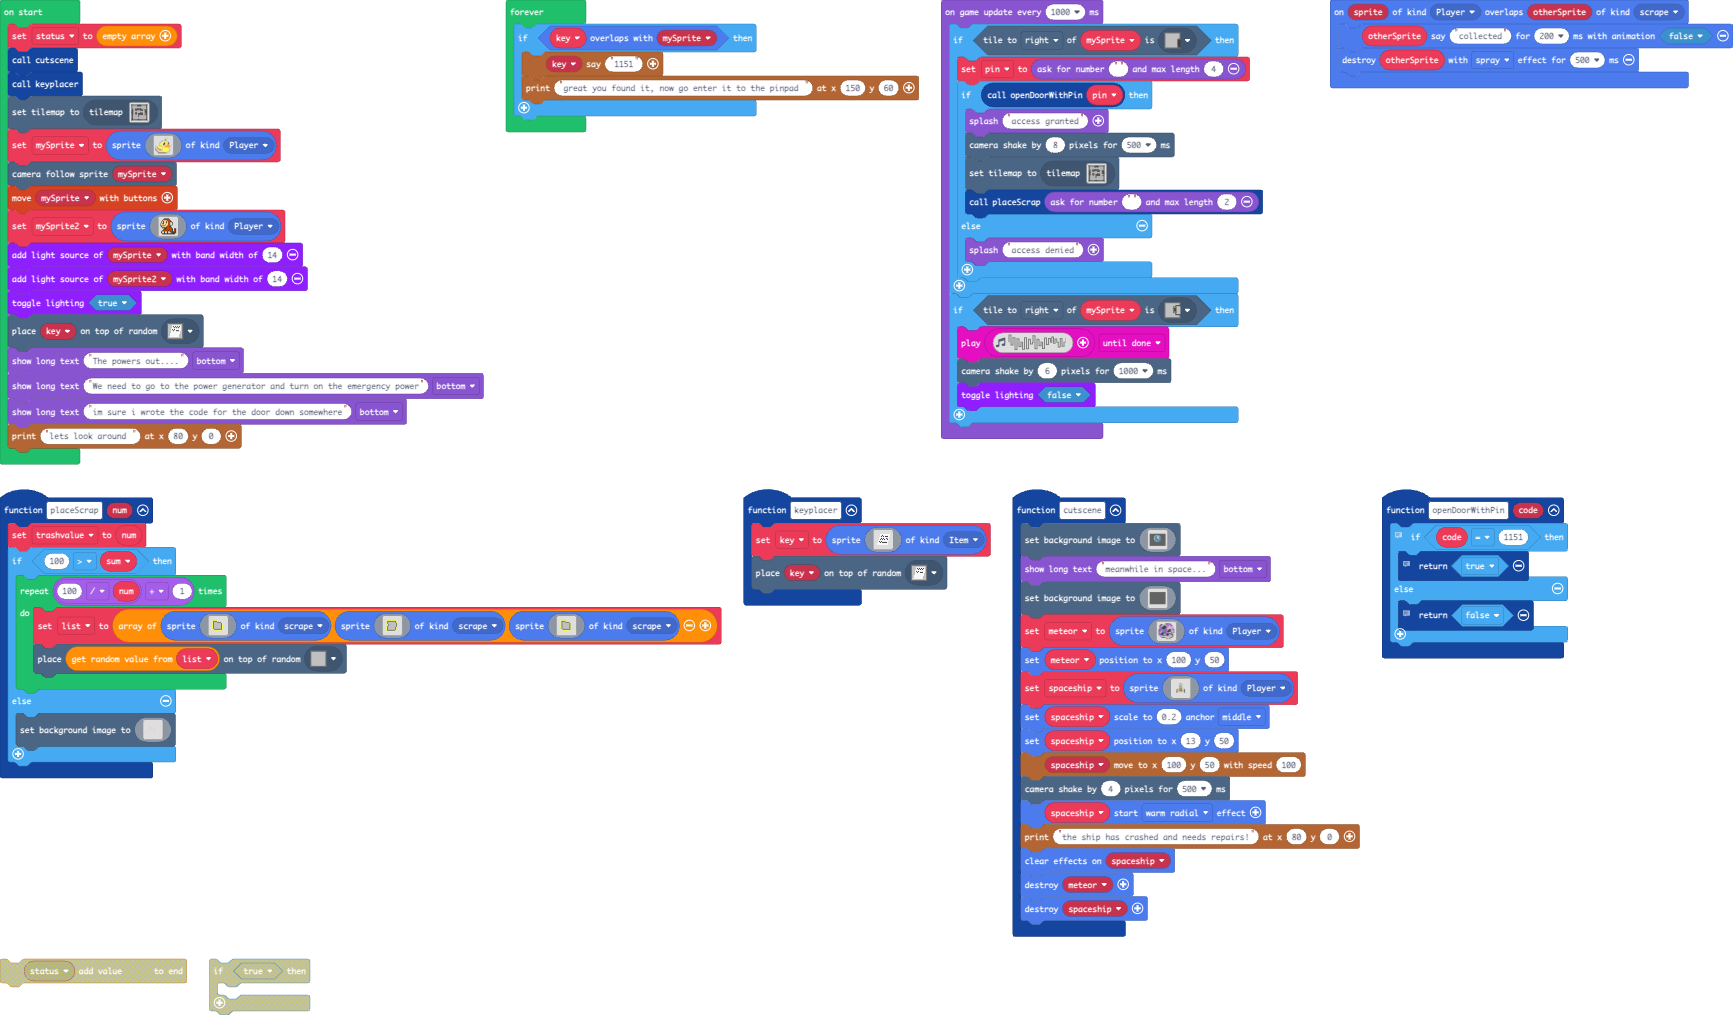
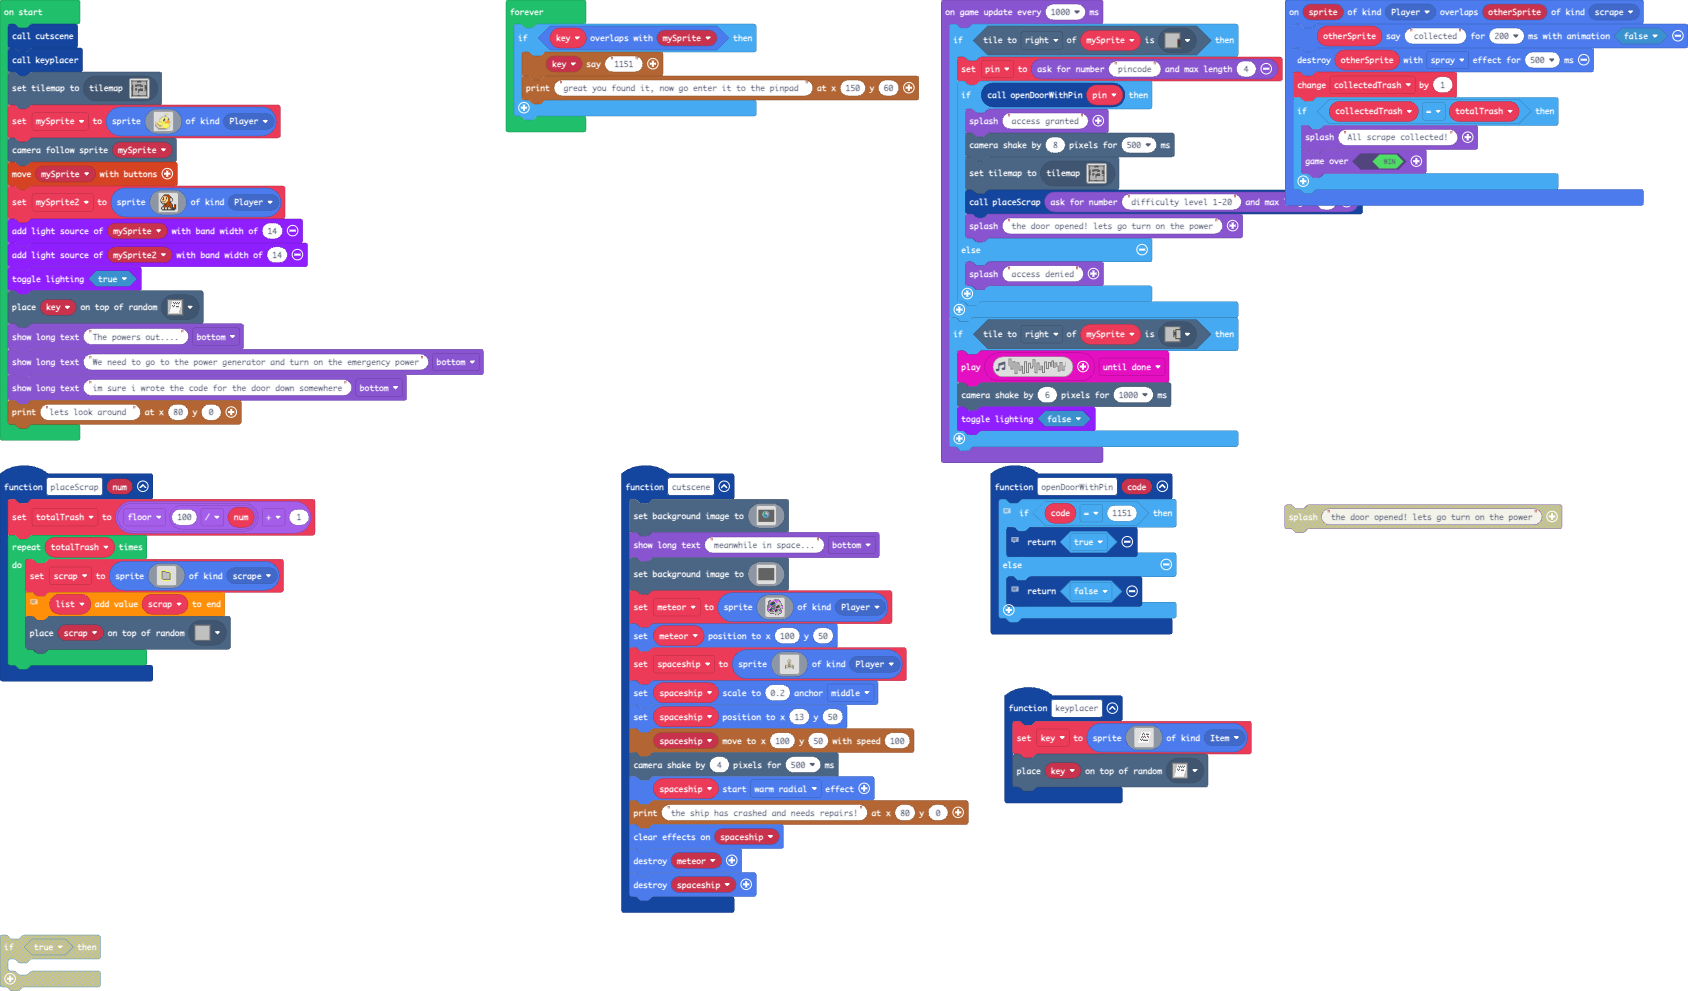
Update pxt.json, main.blocks, main.ts, tilemap.g.jres, tilemap.g.ts

diff --git a/tilemap.g.ts b/tilemap.g.ts
@@ -52,25 +52,6 @@ namespace myTiles {
 ...2222222222..22222222222222.
 ..............................
 `, [myTiles.transparency16,myTiles.tile5,myTiles.tile8,myTiles.tile1,myTiles.tile2,myTiles.tile3,myTiles.tile6], TileScale.Sixteen);
-            case "level1":
-            case "level1":return tiles.createTilemap(hex`1000100000000000000000000000000000000000000000000000000000000000000000000000000000000000000000000000000000000000000000000000000000000000000000000000000000000000000000000000000000000000000000000000000000000000000000000000000000000000000000000000000000000000000000000000000000000000000000000000000000000000000000000000000000000000000000000000000000000000000000000000000000000000000000000000000000000000000000000000000000000000000000000000000000000000000000000000000000000000000000000000000000000000000000000000000000000000`, img`
-. . . . . . . . . . . . . . . . 
-. . . . . . . . . . . . . . . . 
-. . . . . . . . . . . . . . . . 
-. . . . . . . . . . . . . . . . 
-. . . . . . . . . . . . . . . . 
-. . . . . . . . . . . . . . . . 
-. . . . . . . . . . . . . . . . 
-. . . . . . . . . . . . . . . . 
-. . . . . . . . . . . . . . . . 
-. . . . . . . . . . . . . . . . 
-. . . . . . . . . . . . . . . . 
-. . . . . . . . . . . . . . . . 
-. . . . . . . . . . . . . . . . 
-. . . . . . . . . . . . . . . . 
-. . . . . . . . . . . . . . . . 
-. . . . . . . . . . . . . . . . 
-`, [myTiles.transparency16], TileScale.Sixteen);
             case "level3":
             case "level3":return tiles.createTilemap(hex`1000100000000000000000000000000000000000000000000000000000000000000000000000000000000000000000000000000000000000000000000000000000000000000000000000000000000000000000000000000000000000000000000000000000000000000000000000000000000000000000000000000000000000000000000000000000000000000000000000000000000000000000000000000000000000000000000000000000000000000000000000000000000000000000000000000000000000000000000000000000000000000000000000000000000000000000000000000000000000000000000000000000000000000000000000000000000000`, img`
 . . . . . . . . . . . . . . . . 
@@ -329,6 +310,82 @@ namespace myTiles {
 `, [myTiles.transparency16], TileScale.Sixteen);
             case "level13":
             case "level13":return tiles.createTilemap(hex`1000100000000000000000000000000000000000000000000000000000000000000000000000000000000000000000000000000000000000000000000000000000000000000000000000000000000000000000000000000000000000000000000000000000000000000000000000000000000000000000000000000000000000000000000000000000000000000000000000000000000000000000000000000000000000000000000000000000000000000000000000000000000000000000000000000000000000000000000000000000000000000000000000000000000000000000000000000000000000000000000000000000000000000000000000000000000000`, img`
+. . . . . . . . . . . . . . . . 
+. . . . . . . . . . . . . . . . 
+. . . . . . . . . . . . . . . . 
+. . . . . . . . . . . . . . . . 
+. . . . . . . . . . . . . . . . 
+. . . . . . . . . . . . . . . . 
+. . . . . . . . . . . . . . . . 
+. . . . . . . . . . . . . . . . 
+. . . . . . . . . . . . . . . . 
+. . . . . . . . . . . . . . . . 
+. . . . . . . . . . . . . . . . 
+. . . . . . . . . . . . . . . . 
+. . . . . . . . . . . . . . . . 
+. . . . . . . . . . . . . . . . 
+. . . . . . . . . . . . . . . . 
+. . . . . . . . . . . . . . . . 
+`, [myTiles.transparency16], TileScale.Sixteen);
+            case "level14":
+            case "level14":return tiles.createTilemap(hex`1000100000000000000000000000000000000000000000000000000000000000000000000000000000000000000000000000000000000000000000000000000000000000000000000000000000000000000000000000000000000000000000000000000000000000000000000000000000000000000000000000000000000000000000000000000000000000000000000000000000000000000000000000000000000000000000000000000000000000000000000000000000000000000000000000000000000000000000000000000000000000000000000000000000000000000000000000000000000000000000000000000000000000000000000000000000000000`, img`
+. . . . . . . . . . . . . . . . 
+. . . . . . . . . . . . . . . . 
+. . . . . . . . . . . . . . . . 
+. . . . . . . . . . . . . . . . 
+. . . . . . . . . . . . . . . . 
+. . . . . . . . . . . . . . . . 
+. . . . . . . . . . . . . . . . 
+. . . . . . . . . . . . . . . . 
+. . . . . . . . . . . . . . . . 
+. . . . . . . . . . . . . . . . 
+. . . . . . . . . . . . . . . . 
+. . . . . . . . . . . . . . . . 
+. . . . . . . . . . . . . . . . 
+. . . . . . . . . . . . . . . . 
+. . . . . . . . . . . . . . . . 
+. . . . . . . . . . . . . . . . 
+`, [myTiles.transparency16], TileScale.Sixteen);
+            case "level15":
+            case "level15":return tiles.createTilemap(hex`1000100000000000000000000000000000000000000000000000000000000000000000000000000000000000000000000000000000000000000000000000000000000000000000000000000000000000000000000000000000000000000000000000000000000000000000000000000000000000000000000000000000000000000000000000000000000000000000000000000000000000000000000000000000000000000000000000000000000000000000000000000000000000000000000000000000000000000000000000000000000000000000000000000000000000000000000000000000000000000000000000000000000000000000000000000000000000`, img`
+. . . . . . . . . . . . . . . . 
+. . . . . . . . . . . . . . . . 
+. . . . . . . . . . . . . . . . 
+. . . . . . . . . . . . . . . . 
+. . . . . . . . . . . . . . . . 
+. . . . . . . . . . . . . . . . 
+. . . . . . . . . . . . . . . . 
+. . . . . . . . . . . . . . . . 
+. . . . . . . . . . . . . . . . 
+. . . . . . . . . . . . . . . . 
+. . . . . . . . . . . . . . . . 
+. . . . . . . . . . . . . . . . 
+. . . . . . . . . . . . . . . . 
+. . . . . . . . . . . . . . . . 
+. . . . . . . . . . . . . . . . 
+. . . . . . . . . . . . . . . . 
+`, [myTiles.transparency16], TileScale.Sixteen);
+            case "level16":
+            case "level16":return tiles.createTilemap(hex`1000100000000000000000000000000000000000000000000000000000000000000000000000000000000000000000000000000000000000000000000000000000000000000000000000000000000000000000000000000000000000000000000000000000000000000000000000000000000000000000000000000000000000000000000000000000000000000000000000000000000000000000000000000000000000000000000000000000000000000000000000000000000000000000000000000000000000000000000000000000000000000000000000000000000000000000000000000000000000000000000000000000000000000000000000000000000000`, img`
+. . . . . . . . . . . . . . . . 
+. . . . . . . . . . . . . . . . 
+. . . . . . . . . . . . . . . . 
+. . . . . . . . . . . . . . . . 
+. . . . . . . . . . . . . . . . 
+. . . . . . . . . . . . . . . . 
+. . . . . . . . . . . . . . . . 
+. . . . . . . . . . . . . . . . 
+. . . . . . . . . . . . . . . . 
+. . . . . . . . . . . . . . . . 
+. . . . . . . . . . . . . . . . 
+. . . . . . . . . . . . . . . . 
+. . . . . . . . . . . . . . . . 
+. . . . . . . . . . . . . . . . 
+. . . . . . . . . . . . . . . . 
+. . . . . . . . . . . . . . . . 
+`, [myTiles.transparency16], TileScale.Sixteen);
+            case "level1":
+            case "level1":return tiles.createTilemap(hex`1000100000000000000000000000000000000000000000000000000000000000000000000000000000000000000000000000000000000000000000000000000000000000000000000000000000000000000000000000000000000000000000000000000000000000000000000000000000000000000000000000000000000000000000000000000000000000000000000000000000000000000000000000000000000000000000000000000000000000000000000000000000000000000000000000000000000000000000000000000000000000000000000000000000000000000000000000000000000000000000000000000000000000000000000000000000000000`, img`
 . . . . . . . . . . . . . . . . 
 . . . . . . . . . . . . . . . . 
 . . . . . . . . . . . . . . . . 

diff --git a/main.ts b/main.ts
@@ -23,6 +23,11 @@ function keyplacer () {
 sprites.onOverlap(SpriteKind.Player, SpriteKind.scrape, function (sprite, otherSprite) {
     otherSprite.sayText("collected", 200, false)
     sprites.destroy(otherSprite, effects.spray, 500)
+    collectedTrash += 1
+    if (collectedTrash == totalTrash) {
+        game.splash("All scrape collected!")
+        game.over(true)
+    }
 })
 function cutscene () {
     scene.setBackgroundImage(assets.image`spaceearth`)
@@ -42,24 +47,22 @@ function cutscene () {
     sprites.destroy(spaceship)
 }
 function placeScrap (num: number) {
-    let sum = 0
-    trashvalue = num
-    if (100 > sum) {
-        for (let index = 0; index < 100 / num + 1; index++) {
-            list = [sprites.create(assets.image`tattered metal sheet`, SpriteKind.scrape), sprites.create(assets.image`metal sheet`, SpriteKind.scrape), sprites.create(assets.image`tattered metal sheet`, SpriteKind.scrape)]
-            tiles.placeOnRandomTile(list._pickRandom(), assets.tile`Tile3`)
-        }
-    } else {
-        scene.setBackgroundImage(assets.image`womp`)
+    totalTrash = Math.floor(100 / num) + 1
+    for (let index = 0; index < totalTrash; index++) {
+        let list: Sprite[] = []
+        scrap = sprites.create(assets.image`tattered metal sheet`, SpriteKind.scrape)
+        // Add the scrap sprite to the list
+        list.push(scrap)
+        tiles.placeOnRandomTile(scrap, assets.tile`Tile3`)
     }
 }
 let pin = 0
-let list: Sprite[] = []
-let trashvalue = 0
+let scrap: Sprite = null
 let spaceship: Sprite = null
 let meteor: Sprite = null
+let totalTrash = 0
+let collectedTrash = 0
 let key: Sprite = null
-let status: number[] = []
 cutscene()
 keyplacer()
 tiles.setCurrentTilemap(tilemap`map in doors`)
@@ -77,12 +80,13 @@ game.showLongText("im sure i wrote the code for the door down somewhere", Dialog
 story.printText("lets look around ", 80, 0)
 game.onUpdateInterval(1000, function () {
     if (mySprite.tileKindAt(TileDirection.Right, assets.tile`Tile2`)) {
-        pin = game.askForNumber("", 4)
+        pin = game.askForNumber("pincode", 4)
         if (openDoorWithPin(pin)) {
             game.splash("access granted")
             scene.cameraShake(8, 500)
             tiles.setCurrentTilemap(tilemap`lemap`)
-            placeScrap(game.askForNumber("", 2))
+            placeScrap(game.askForNumber("difficulty level 1-20", 2))
+            game.splash("the door opened! lets go turn on the power")
         } else {
             game.splash("access denied")
         }
